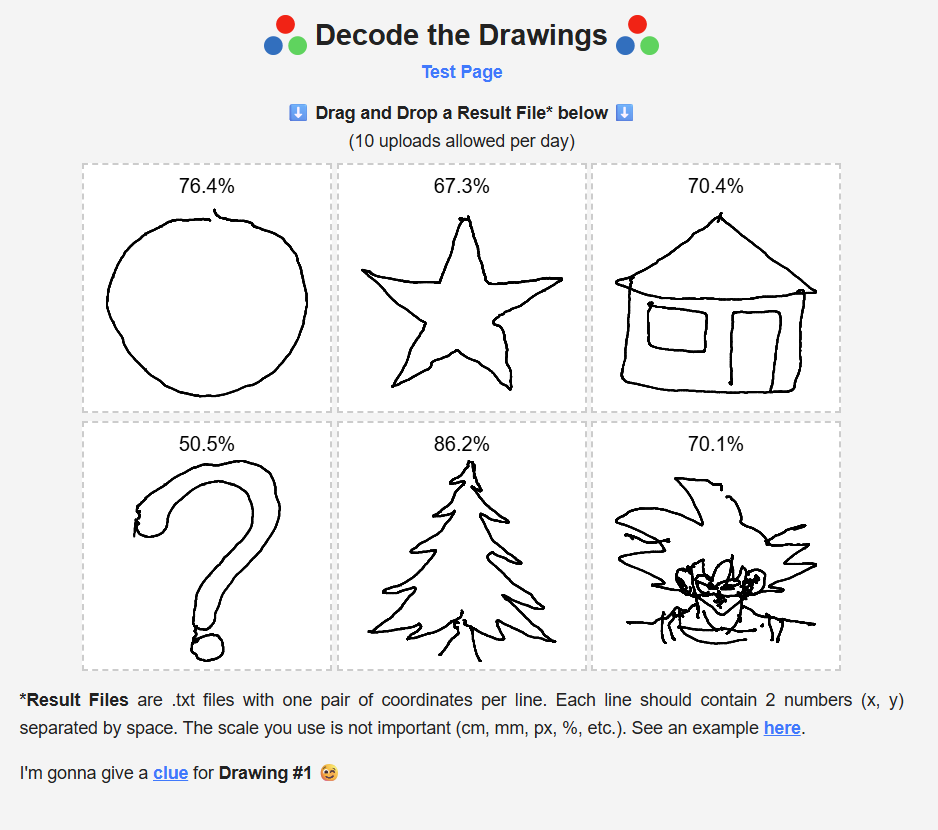
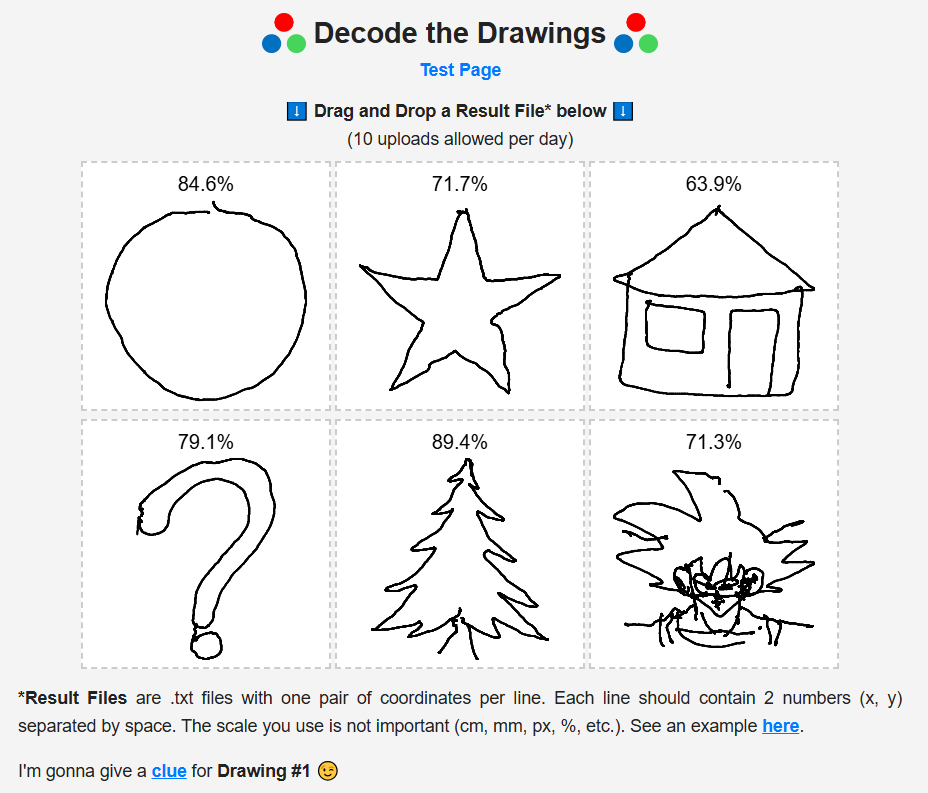
Updated readme with more pictures Updated test results image

diff --git a/README.md b/README.md
@@ -3,9 +3,22 @@
 <https://radufromfinland.com/decodeTheDrawings/>  
 <https://www.youtube.com/watch?v=bZ8uSzZv0ew>
 
-Radu recorded 6 videos with a camera mounted on top of a pen as he drew 6 different shapes/pictures, while the camera pointing at a wall with three coloured balls attached.
+Radu recorded 6 videos with a camera mounted on top of a pen as he drew 6 different shapes/pictures, while the camera pointed at three coloured balls attached to a wall.
 
-The challenge was to track the balls in the video and use their relative position and motion to decode what was being drawn as the camera moved with the pen.
+The challenge was to track the balls in the video and use their relative positions and motion to decode what was being drawn as the camera moved with the pen.
+
+# My Results
+
+You can find the XY image coordinate TXT files at `results/v3/`. Here are the decoded drawing images:
+
+<img src="results/v3/1.png" width="300" alt="circle" title="circle" />
+<img src="results/v3/2.png" width="300" alt="star" title="star" />
+<img src="results/v3/3.png" width="300" alt="house" title="house" />
+
+<img src="results/v3/4.png" width="300" alt="question mark" title="question mark" />
+<img src="results/v3/5.png" width="300" alt="christmas tree" title="christmas tree" />
+<img src="results/v3/6.png" width="300" alt="goku" title="goku" />
+
 
 # My Solution
 
@@ -13,7 +26,7 @@ I broke the challenge down into three parts:
 
 ## 1. User Interface
 
-The user interface is handled by `index.html` and `./js/main.js`.  
+The user interface is handled by `index.html` and `js/main.js`.  
 <img src="images/userinterface.jpg" alt="User Interface" title="User Interface" width="600" />
 
 ### Decoder Version
@@ -22,7 +35,7 @@ The first row of controls lets you choose a drawing `Decoder Version`, but defau
 ### Input Source
 The second row lets you choose a `Video Input` to process. The videos are too large to upload here, but you can download them from Radu's site linked above.
 
-Processing the source videos is slow, so I added an option to export the detected ball data to a JS file which could be reused much more quickly. The `Data File Input` control lets you choose which of these to process, and these JS files are included in the `./data/` directory.
+Processing the source videos is slow, so I added an option to export the detected ball data to a JS file which could be reused much more quickly. The `Data File Input` control lets you choose which of these to process, and these JS files are included in the `data/` directory.
 
 ### Decoder Settings
 The third row of controls let you tweak some settings of the V3 drawing decoder. The settings are not applicable to V1 or V2 and will be disabled for those decoders. 
@@ -45,7 +58,7 @@ Below the controls is a 700x700 canvas where the Drawing Decoder will draw its i
 
 To the right of the drawing canvas are textarea controls with associated download buttons for saving the processing results.
 
-The first textarea generates javascript module code which can be stored in `./data/` for faster reprocessing. This module exports an array of ball positions and radii for each frame in the video. I have already included the corresponding files for the 6 provided videos.
+The first textarea generates javascript module code which can be stored in `data/` for faster reprocessing. This module exports an array of ball positions and radii for each frame in the video. I have already included the corresponding files for the 6 provided videos.
 
 The second textarea generates the XY image coordinates for the decoded drawing, and allows them to be downloaded as a TXT file for checking at the test page here: <https://radufromfinland.com/decodeTheDrawings/test/>
 
@@ -58,7 +71,7 @@ Right at the bottom is a canvas on which the input video is displayed, only if a
 
 The Ball Detection algorithm is based heavily on the Marker Detection algorithm described by Radu here: <https://www.youtube.com/watch?v=jy-Mxbt0zww>
 
-Full details are given within the code comments at `./js/ballDetector.js` but the basic idea is that for each pixel we determine how red, green or blue it is by subtracting from each channel the maximum of the other two channels. 
+Full details are given within the code comments at `js/ballDetector.js` but the basic idea is that for each pixel we determine how red, green or blue it is by subtracting from each channel the maximum of the other two channels. 
 
 So, if the blue channel is high and the other channels are low, the pixel gets a high 'blueness'. If red is high, but so is green, then even if blue is low the difference between green and red is low so it's 'redness' is also low.
 
@@ -72,7 +85,7 @@ I have included the three versions of the Drawing Decoder to show the progressio
 
 This is partly because they work really badly, partly because V1 is so trivial that it's kind of self explanatory, and partly because I'm not sure what I was thinking when i did V2. I have added as much detail as I can in the comments, but V2 remains a mystery, and probably not a mystery worth solving, except as a way to understand more about how my mind works.
 
-See `./js/drawingDecoderV1.js` and `./js/drawingDecoderV2.js`
+See `js/drawingDecoderV1.js` and `js/drawingDecoderV2.js`
 
 ### V3 Drawing Decoder
 
@@ -128,4 +141,6 @@ A lot of tweaking later, and trying different values with different drawings, an
 
 I can still tell that the distortion isn't completely removed, or that my method is still quite flawed, as there is still no perfect Z threshold that gets rid of all lines where the pen is off the paper without removing some where it's definitely still on the paper, but I know I made a lot of assumptions and simplifications to get to a 'good enough' result so I am not surprised by that, and pleasantly surpised that it works as well as it does!
 
-See `./js/drawingDecoderV3.js`
+See `js/drawingDecoderV3.js`
+
+<img src="results/v3/test results.png" width="600" alt="test results" title="test results" />
